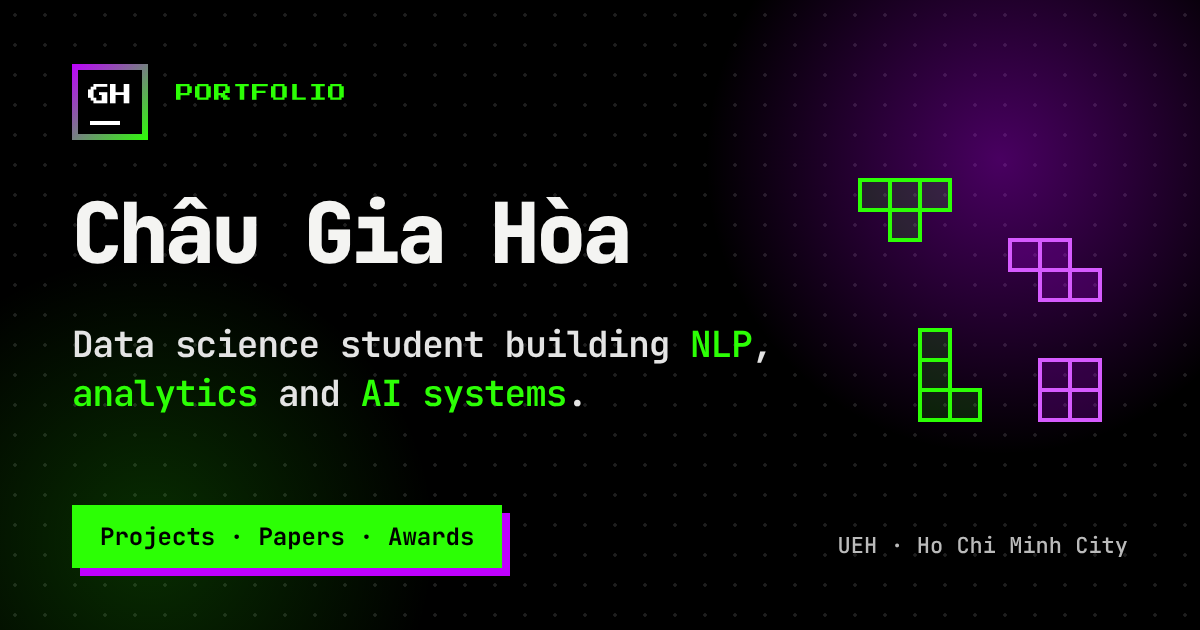
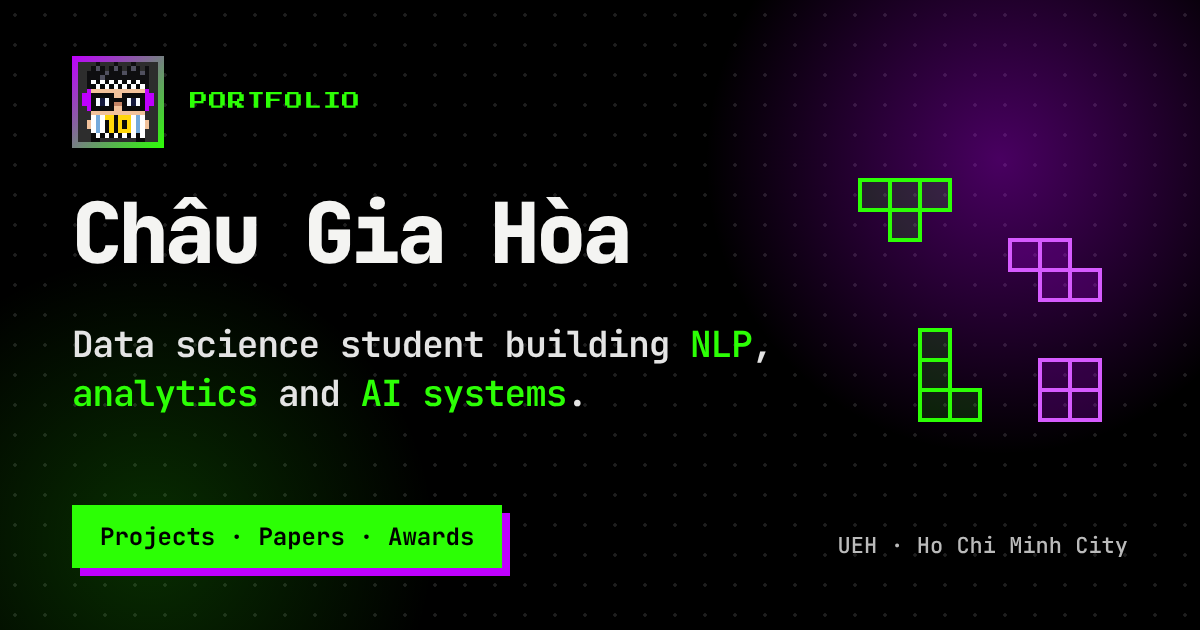
Add my mascot character

Changed region(s): [[0.0617, 0.0905, 0.3083, 0.2413]]

diff --git a/app/globals.css b/app/globals.css
@@ -640,3 +640,8 @@ body { background-image: radial-gradient(color-mix(in srgb, var(--ink) 11%, tran
 }
 /* bỏ ánh sáng theo con trỏ */
 .panel::before, .tl-card::before, .skill-card::before, .cred::before, .card::before, .hero-contact::before { display: none !important; }
+
+/* logo = mascot pixel */
+.brand .logo { width: 38px; height: 38px; padding: 3px; background: linear-gradient(135deg, var(--accent2), var(--accent)); display: inline-grid; place-items: center; }
+.brand .logo img { width: 100%; height: 100%; display: block; image-rendering: pixelated; background: #2d2d2d; }
+:root[data-theme="light"] .brand .logo img { background: #2d2d2d; }

diff --git a/components/Header.tsx b/components/Header.tsx
@@ -7,7 +7,7 @@ export function Header() {
     <header className="header">
       <div className="wrap header-in">
         <Link href="/" className="brand" aria-label={site.name}>
-          <span className="logo" aria-hidden="true"><b>GH</b><i /></span>
+          <span className="logo" aria-hidden="true"><img src="/mascot.png" alt="" width={28} height={28} /></span>
           <span>{site.shortName}</span>
         </Link>
         <HeaderTools />
